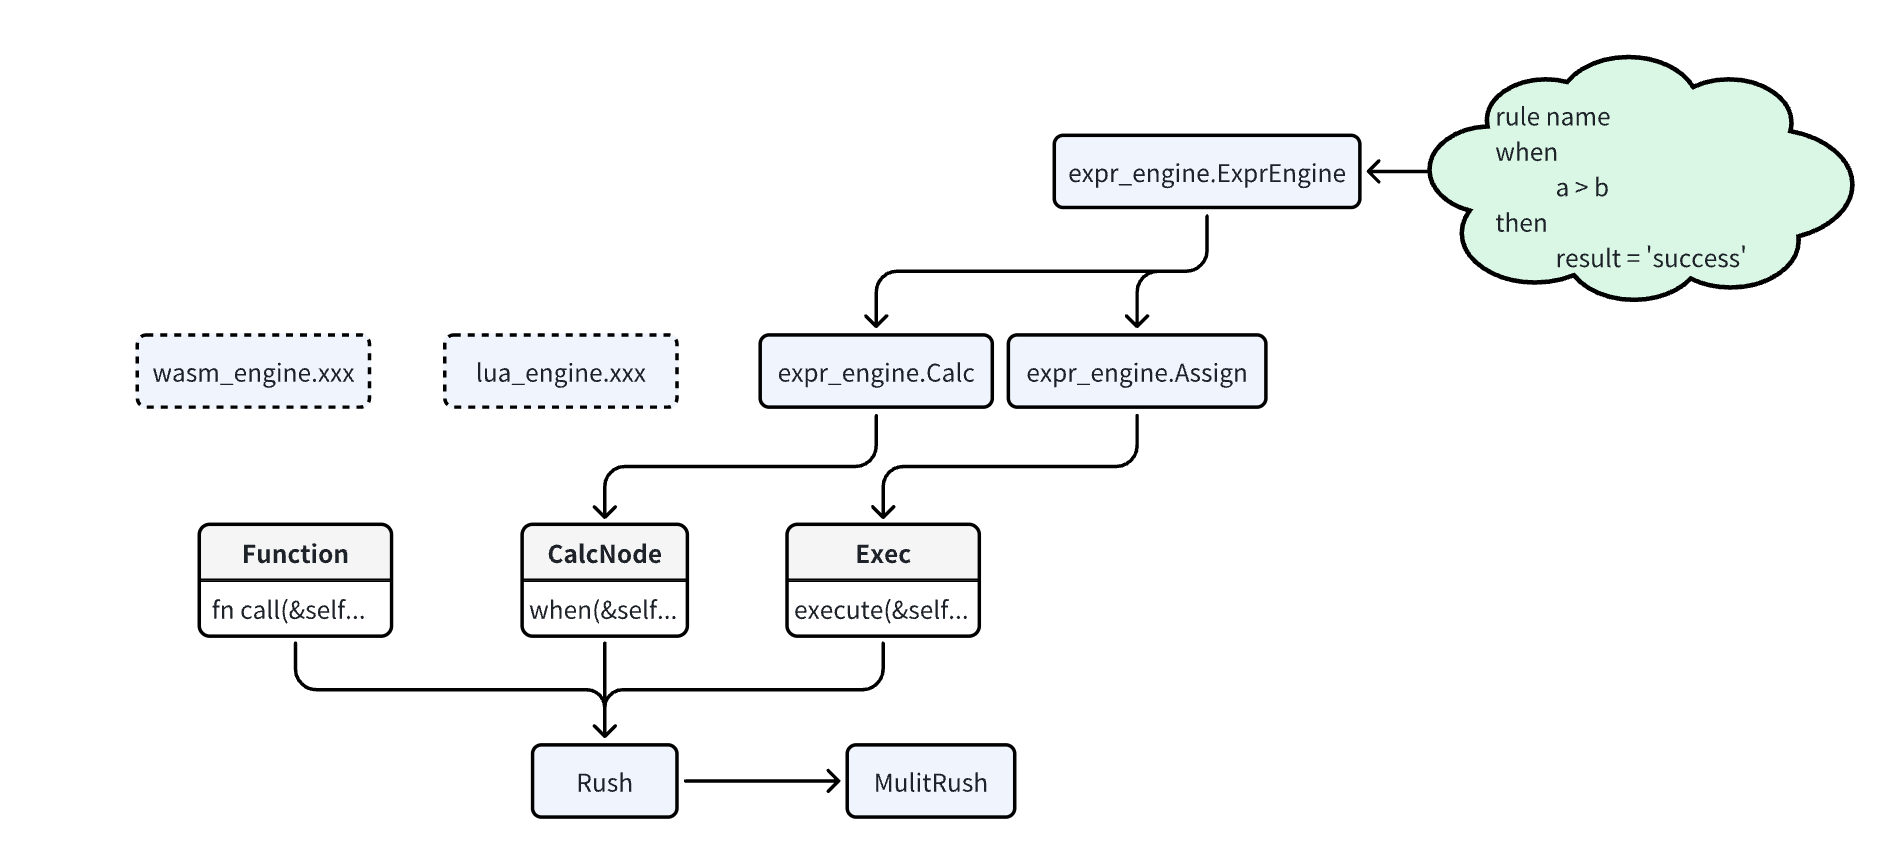
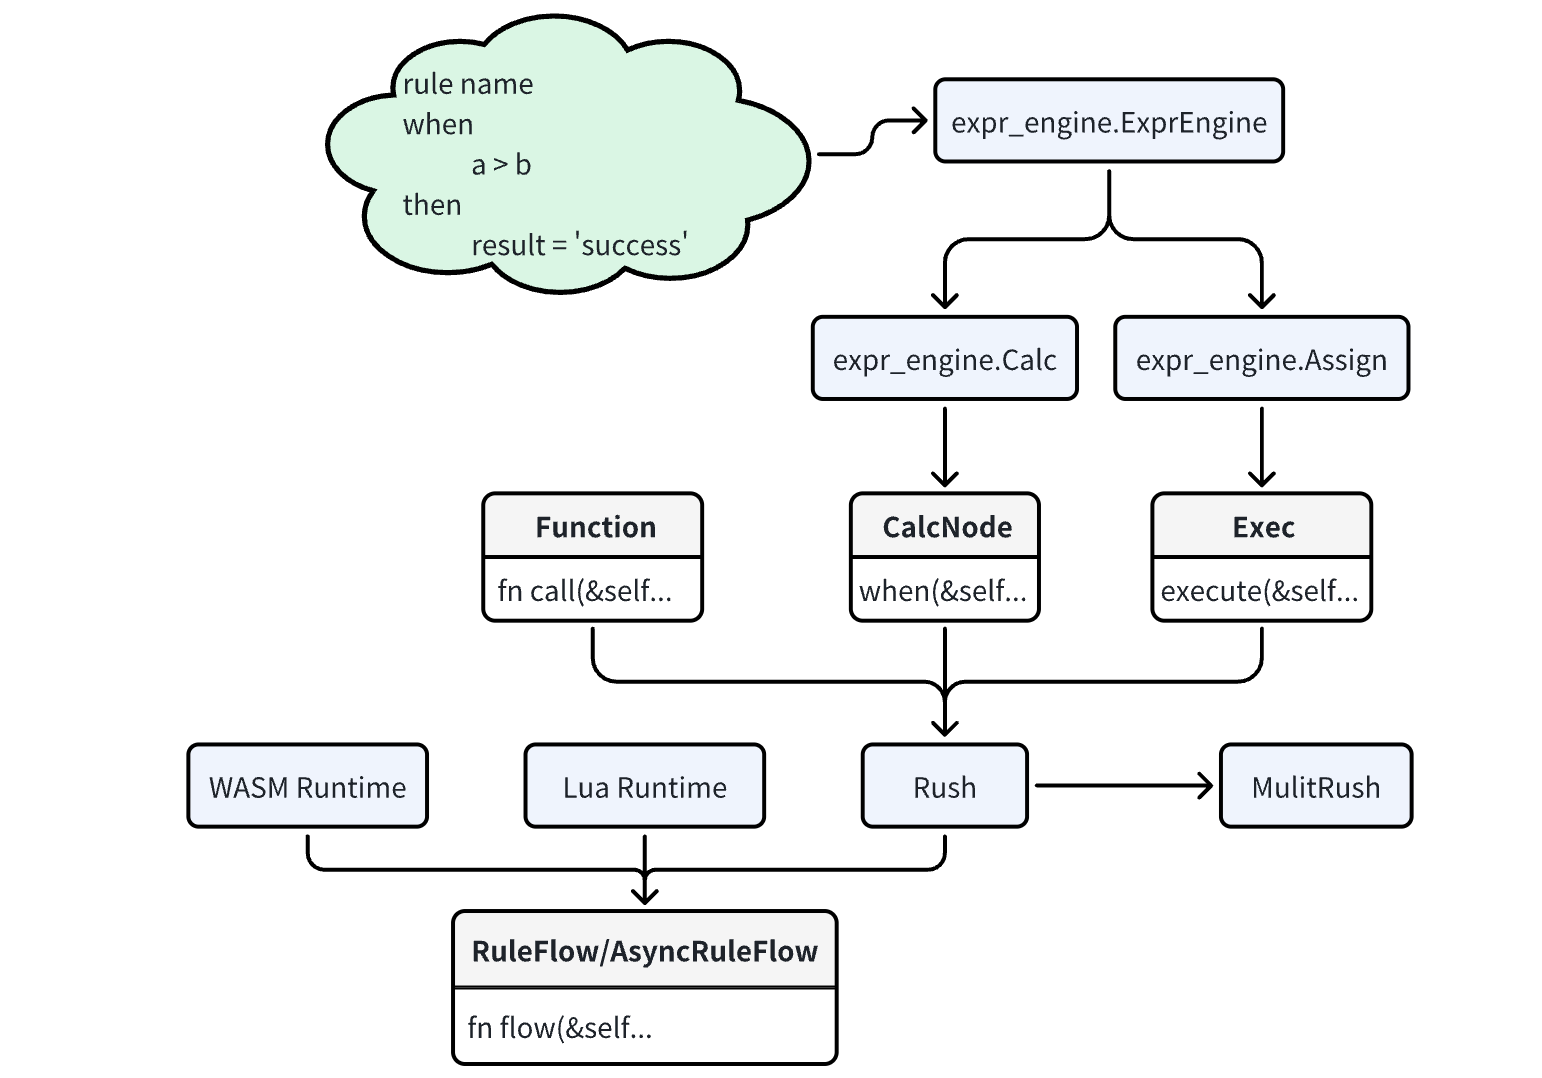
完善文档

Changed region(s): [[0.0934, 0.0, 0.9961, 1.0], [0.7471, 0.4375, 0.9027, 0.5938], [0.0623, 0.4062, 0.1868, 0.4688]]

diff --git a/README.md b/README.md
@@ -1,4 +1,6 @@
 # Rush
+[中文文档](https://juejin.cn/column/7281080737491025955)
+
 Rush is a universal rules engine.
 
 Rush provides a general computational abstraction. There can be multiple implementations and any combination.
@@ -75,6 +77,32 @@ You can add functions just like normal rust functions
 
 [More function impl](https://github.com/woshihaoren4/rush/blob/main/example/src/function_test.rs)
 
+## Lua
+
+[More lua example](https://github.com/woshihaoren4/rush/blob/lua_engine/example/src/lua_test.rs)
+
+```rust
+    const LUA_RULE_SCRIPT: &'static str = r#"
+    rule LUA_RULE_SCRIPT _ lua
+    lua_script:
+    function handle(req)
+        local resp = {}
+
+        if req.source == ONLINE_CHANNEL then
+            resp.message = "线上渠道"
+        elseif req.source == OFFLINE_CHANNEL then
+            resp.message = "线下渠道"
+        else
+            resp.message = "未知渠道:"..req.source
+        end
+
+        return resp
+    end
+
+    return {handle_function="handle"}
+    "#;
+```
+
 ## Abstraction and Structure
 
 ![img.png](img.png)
@@ -96,6 +124,7 @@ single_parse         time:   [165.08 ns 174.83 ns 186.49 ns]
 simple_parse         time:   [2.6358 µs 2.6470 µs 2.6591 µs]
 full_parse           time:   [19.868 µs 20.089 µs 20.356 µs]
 have_function_rush   time:   [6.9074 µs 6.9507 µs 7.0011 µs]
+lua_async_flow       time:   [10.731 µs 10.847 µs 10.970 µs]
 ```
 
 ## Plan
